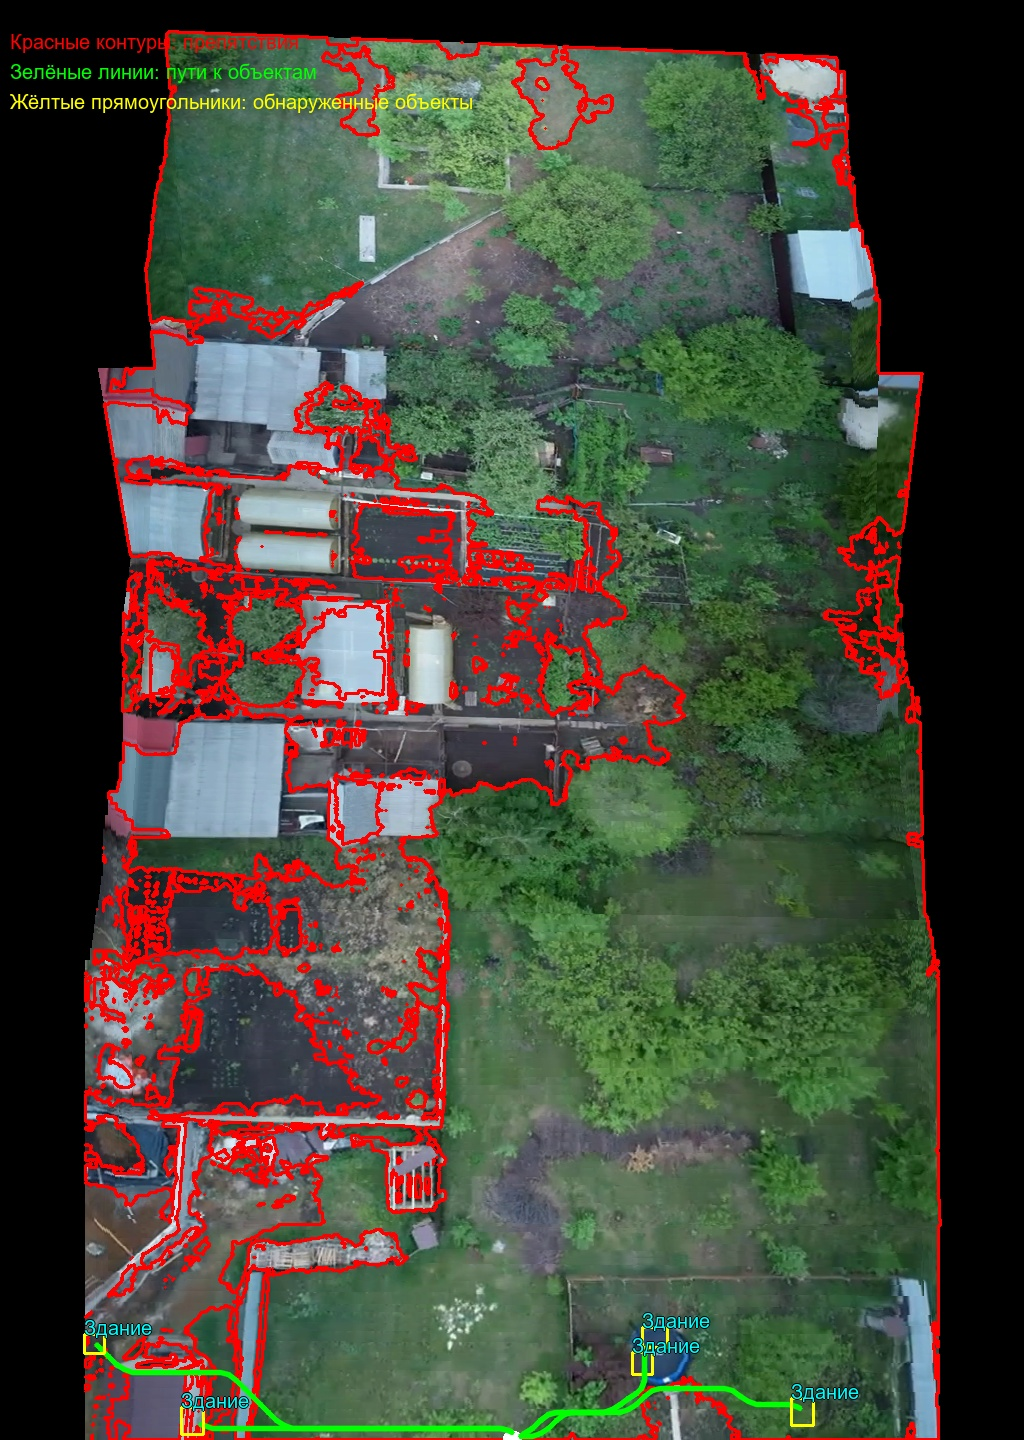
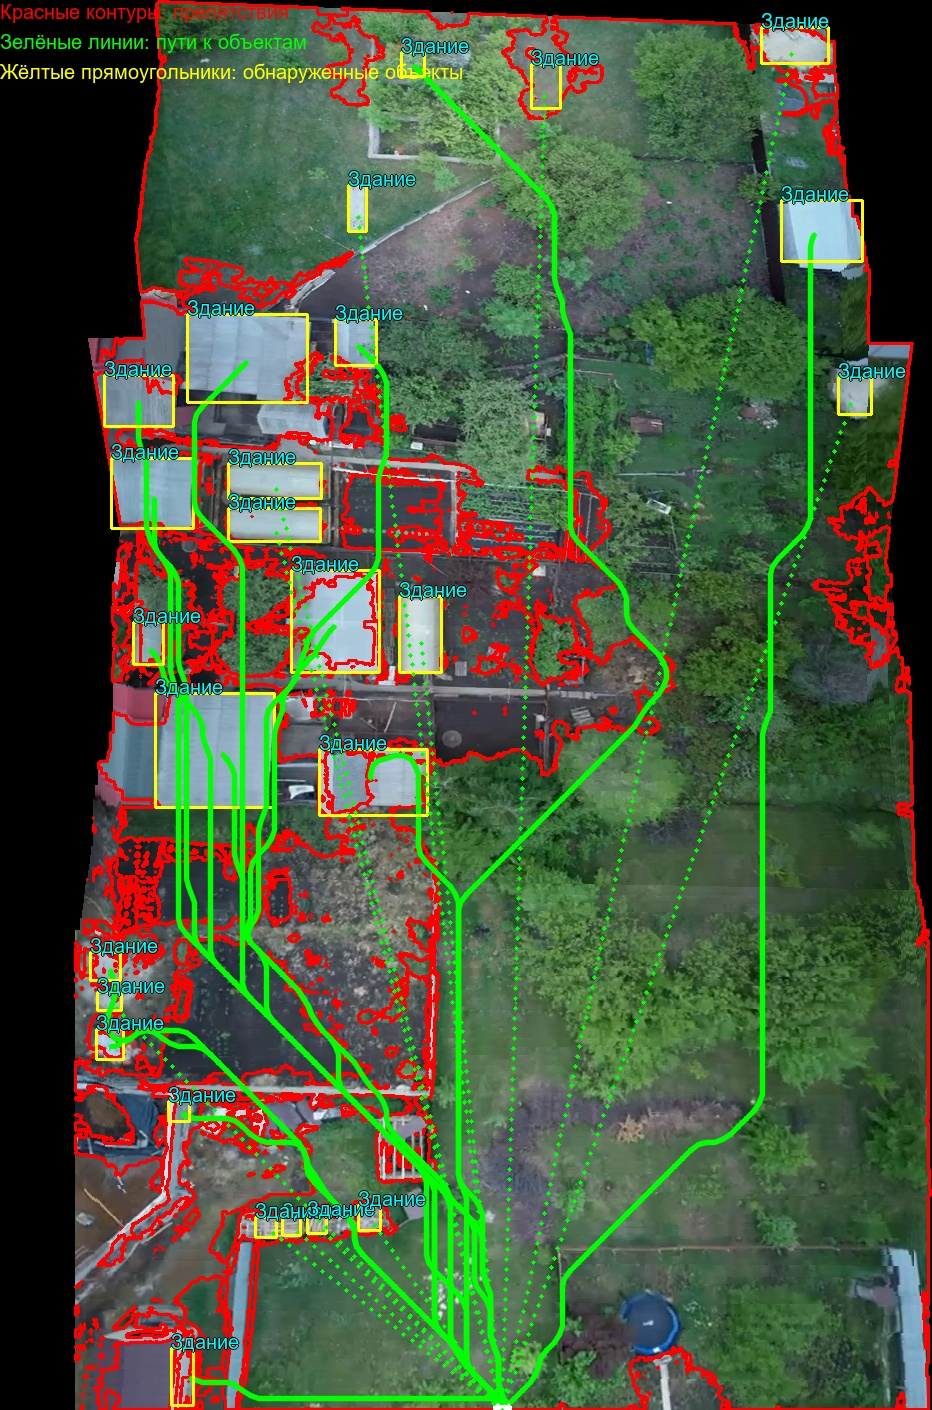
Улучшение логики работы

diff --git a/main.py b/main.py
@@ -87,9 +87,12 @@ class VideMosaic:
     def detect_objects(self, frame):
         if self.model is None:
             return []
+        # Resize frame to standard size for better detection
+        original_shape = frame.shape[:2]
+        resized = cv2.resize(frame, (640, 640), interpolation=cv2.INTER_LINEAR)
         # Use optimized parameters for maximum detection quality
         results = self.model.predict(
-            frame,
+            resized,
             conf=0.4,      # confidence threshold - filter out low-confidence detections
             iou=0.45,      # IoU threshold for NMS - reduces duplicate detections
             imgsz=640,     # image size for detection - larger for better accuracy
@@ -99,6 +102,13 @@ class VideMosaic:
         for result in results:
             for box in result.boxes:
                 x1, y1, x2, y2 = box.xyxy[0].cpu().numpy()
+                # Scale back to original size
+                scale_x = original_shape[1] / 640
+                scale_y = original_shape[0] / 640
+                x1 *= scale_x
+                x2 *= scale_x
+                y1 *= scale_y
+                y2 *= scale_y
                 class_id = int(box.cls[0])
                 confidence = float(box.conf[0])  # Get confidence score
                 class_name = self.model.names[class_id] if hasattr(self.model, 'names') else str(class_id)
@@ -431,22 +441,19 @@ def analyze_for_navigation(frame, detections, start_point=None):
             cv2.rectangle(nav_map, (x1, y1), (x2, y2), (0, 255, 255), 2)  # Yellow for objects
 
     # --- New: detect building-like targets on the mosaic (rectangular, large contours)
-    def detect_buildings(img, min_area=100):
+    def detect_buildings(img, min_area=50):
         # Try a more robust multi-step approach to find large man-made rectangular shapes
         gray = cv2.cvtColor(img, cv2.COLOR_BGR2GRAY)
         blur = cv2.GaussianBlur(gray, (5, 5), 0)
-        # Adaptive threshold to separate objects with different lighting
-        try:
-            th = cv2.adaptiveThreshold(blur, 255, cv2.ADAPTIVE_THRESH_GAUSSIAN_C, cv2.THRESH_BINARY_INV, 25, 7)
-        except Exception:
-            _, th = cv2.threshold(blur, 0, 255, cv2.THRESH_BINARY_INV + cv2.THRESH_OTSU)
+        # Use simple threshold for better detection
+        _, th = cv2.threshold(blur, 127, 255, cv2.THRESH_BINARY_INV)
 
         # Morphological closing to merge roof regions and remove small holes
         kernel = cv2.getStructuringElement(cv2.MORPH_RECT, (9, 9))
         closed = cv2.morphologyEx(th, cv2.MORPH_CLOSE, kernel, iterations=2)
 
         # Edge detection on closed image
-        edges = cv2.Canny(closed, 30, 120)
+        edges = cv2.Canny(closed, 50, 150)
         contours, _ = cv2.findContours(edges, cv2.RETR_EXTERNAL, cv2.CHAIN_APPROX_SIMPLE)
         buildings = []
         print(f"Found {len(contours)} contours")
@@ -455,14 +462,14 @@ def analyze_for_navigation(frame, detections, start_point=None):
             if area < min_area:
                 continue
             peri = cv2.arcLength(cnt, True)
-            approx = cv2.approxPolyDP(cnt, 0.02 * peri, True)
+            approx = cv2.approxPolyDP(cnt, 0.04 * peri, True)  # More lenient approximation
             x, y, w, h = cv2.boundingRect(approx)
             rect_area = w * h
             if rect_area <= 0:
                 continue
             fill_ratio = area / float(rect_area)
-            # Accept roughly rectangular-ish large contours OR tall/wide boxes
-            if fill_ratio > 0.1 and w > 10 and h > 10 and len(approx) >= 4 and len(approx) <= 8:
+            # Relaxed criteria for buildings
+            if fill_ratio > 0.05 and w > 5 and h > 5 and len(approx) >= 3:  # At least triangle
                 buildings.append((x, y, x + w, y + h))
         print(f"Detected {len(buildings)} buildings")
         return buildings
@@ -523,8 +530,7 @@ def analyze_for_navigation(frame, detections, start_point=None):
         try:
             print("Computing paths...")
             buildings = detect_buildings(frame)
-            # Limit to first 5 buildings for faster processing
-            buildings = buildings[:5]
+            # Removed limit to process all detected buildings
             result_dict['buildings'] = buildings
             overlays = []
             labels = []
@@ -663,6 +669,8 @@ def main():
     # Analyze mosaic for navigation
     print("Analyzing mosaic for navigation...")
     navigation_map = analyze_for_navigation(video_mosaic.output_img.astype(np.uint8), detections, start_point=start_point)
+    print("Cropping black areas from navigation map...")
+    navigation_map = crop_black_areas(navigation_map)
     cv2.imwrite('navigation_map.jpg', navigation_map)
     print("Navigation map saved as 'navigation_map.jpg'")
 
